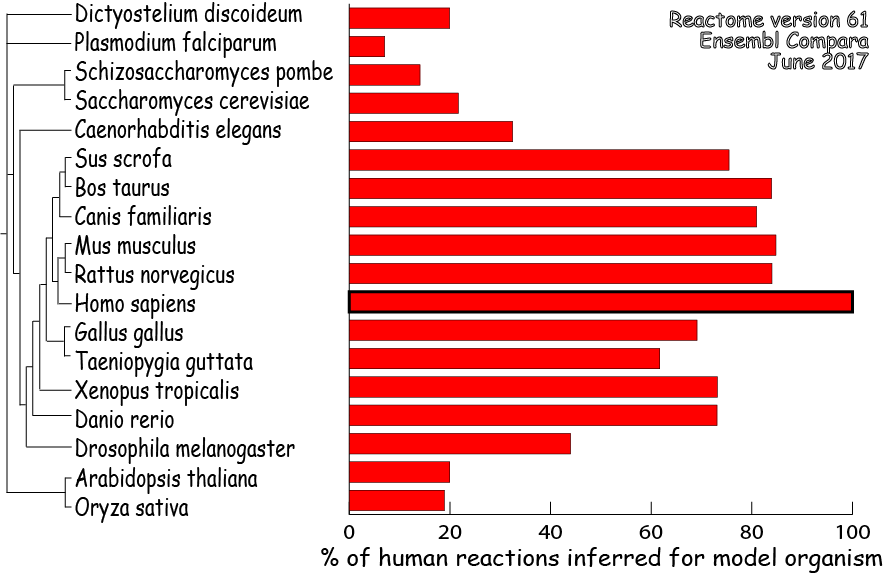
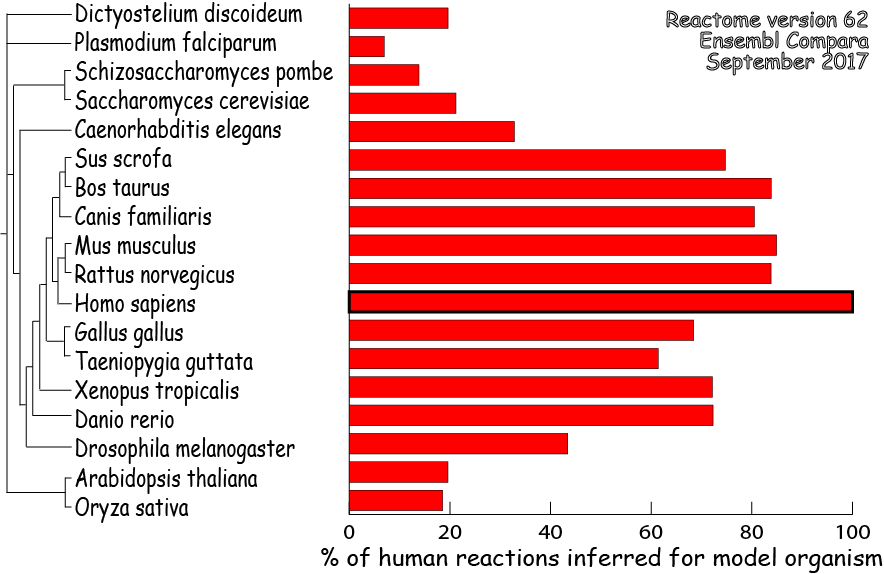
version 62

diff --git a/scripts/release/website_files_update/stats.html b/scripts/release/website_files_update/stats.html
@@ -7,7 +7,7 @@
 
     <body>
 	<!--#include virtual="/cgi-bin/navigation_bar" -->
-	<h1 class="frontpage">Reactome Statistics (Version 61)</h1>
+	<h1 class="frontpage">Reactome Statistics (Version 62)</h1>
 	    
 	<!-- Start of the stats table  -->
 	<table border="0" width="90%" cellpadding="0" cellspacing="0" class="classbrowser">
@@ -23,146 +23,146 @@
 		    
 		    <tr height="18" class="own">
 			<td height="25" class="own">D. discoideum</td>
-			<td class="own" align="center">2046</td>
-			<td class="own" align="center">1919</td>
+			<td class="own" align="center">2036</td>
+			<td class="own" align="center">1915</td>
 			<td class="own" align="center">1668</td>
-			<td class="own" align="center">844</td>
+			<td class="own" align="center">826</td>
 		    </tr>
 		    
 		    <tr height="18" class="own">
 			<td height="25" class="own">P. falciparum</td>
-			<td class="own" align="center">775</td>
-			<td class="own" align="center">719</td>
-			<td class="own" align="center">587</td>
-			<td class="own" align="center">480</td>
+			<td class="own" align="center">776</td>
+			<td class="own" align="center">720</td>
+			<td class="own" align="center">589</td>
+			<td class="own" align="center">453</td>
 		    </tr>
 		    
 		    <tr height="18" class="own">
 			<td height="25" class="own">S. pombe</td>
-			<td class="own" align="center">1439</td>
-			<td class="own" align="center">1403</td>
+			<td class="own" align="center">1429</td>
+			<td class="own" align="center">1399</td>
 			<td class="own" align="center">1180</td>
-			<td class="own" align="center">695</td>
+			<td class="own" align="center">676</td>
 		    </tr>
 		    
 		    <tr height="18" class="own">
 			<td height="25" class="own">S. cerevisiae</td>
-			<td class="own" align="center">1618</td>
-			<td class="own" align="center">2066</td>
-			<td class="own" align="center">1884</td>
-			<td class="own" align="center">866</td>
+			<td class="own" align="center">1605</td>
+			<td class="own" align="center">2033</td>
+			<td class="own" align="center">1872</td>
+			<td class="own" align="center">829</td>
 		    </tr>
 		    
 		    <tr height="18" class="own">
 			<td height="25" class="own">C. elegans</td>
-			<td class="own" align="center">4929</td>
-			<td class="own" align="center">3119</td>
-			<td class="own" align="center">2709</td>
-			<td class="own" align="center">1110</td>
+			<td class="own" align="center">4952</td>
+			<td class="own" align="center">3220</td>
+			<td class="own" align="center">2784</td>
+			<td class="own" align="center">1115</td>
 		    </tr>
 		    
 		    <tr height="18" class="own">
 			<td height="25" class="own">S. scrofa</td>
-			<td class="own" align="center">9847</td>
-			<td class="own" align="center">7296</td>
-			<td class="own" align="center">6310</td>
-			<td class="own" align="center">1511</td>
+			<td class="own" align="center">9802</td>
+			<td class="own" align="center">7428</td>
+			<td class="own" align="center">6356</td>
+			<td class="own" align="center">1529</td>
 		    </tr>
 		    
 		    <tr height="18" class="own">
 			<td height="25" class="own">B. taurus</td>
-			<td class="own" align="center">9257</td>
-			<td class="own" align="center">8087</td>
-			<td class="own" align="center">7082</td>
-			<td class="own" align="center">1568</td>
+			<td class="own" align="center">9329</td>
+			<td class="own" align="center">8212</td>
+			<td class="own" align="center">7193</td>
+			<td class="own" align="center">1581</td>
 		    </tr>
 		    
 		    <tr height="18" class="own">
 			<td height="25" class="own">C. familiaris</td>
-			<td class="own" align="center">10350</td>
-			<td class="own" align="center">7848</td>
-			<td class="own" align="center">6771</td>
-			<td class="own" align="center">1551</td>
+			<td class="own" align="center">10413</td>
+			<td class="own" align="center">7962</td>
+			<td class="own" align="center">6847</td>
+			<td class="own" align="center">1571</td>
 		    </tr>
 		    
 		    <tr height="18" class="own">
 			<td height="25" class="own">M. musculus</td>
-			<td class="own" align="center">11553</td>
-			<td class="own" align="center">8877</td>
-			<td class="own" align="center">7809</td>
-			<td class="own" align="center">1613</td>
+			<td class="own" align="center">11535</td>
+			<td class="own" align="center">9138</td>
+			<td class="own" align="center">8030</td>
+			<td class="own" align="center">1600</td>
 		    </tr>
 		    
 		    <tr height="18" class="own">
 			<td height="25" class="own">R. norvegicus</td>
-			<td class="own" align="center">10878</td>
-			<td class="own" align="center">8224</td>
-			<td class="own" align="center">7246</td>
-			<td class="own" align="center">1574</td>
+			<td class="own" align="center">10955</td>
+			<td class="own" align="center">8392</td>
+			<td class="own" align="center">7363</td>
+			<td class="own" align="center">1583</td>
 		    </tr>
 		    
 		    <tr height="18" class="own">
 			<td height="25" class="own">*H. sapiens</td>
-			<td class="own" align="center">10684</td>
-			<td class="own" align="center">11041</td>
-			<td class="own" align="center">11042</td>
-			<td class="own" align="center">2148</td>
+			<td class="own" align="center">10712</td>
+			<td class="own" align="center">11284</td>
+			<td class="own" align="center">11302</td>
+			<td class="own" align="center">2176</td>
 		    </tr>
 		    
 		    <tr height="18" class="own">
 			<td height="25" class="own">G. gallus</td>
-			<td class="own" align="center">8565</td>
-			<td class="own" align="center">7129</td>
-			<td class="own" align="center">6125</td>
-			<td class="own" align="center">1588</td>
+			<td class="own" align="center">8627</td>
+			<td class="own" align="center">7245</td>
+			<td class="own" align="center">6165</td>
+			<td class="own" align="center">1600</td>
 		    </tr>
 		    
 		    <tr height="18" class="own">
 			<td height="25" class="own">T. guttata</td>
-			<td class="own" align="center">6991</td>
-			<td class="own" align="center">6098</td>
-			<td class="own" align="center">5153</td>
-			<td class="own" align="center">1462</td>
+			<td class="own" align="center">7079</td>
+			<td class="own" align="center">6155</td>
+			<td class="own" align="center">5212</td>
+			<td class="own" align="center">1484</td>
 		    </tr>
 		    
 		    <tr height="18" class="own">
 			<td height="25" class="own">X. tropicalis</td>
-			<td class="own" align="center">8647</td>
-			<td class="own" align="center">6994</td>
-			<td class="own" align="center">6112</td>
-			<td class="own" align="center">1516</td>
+			<td class="own" align="center">8726</td>
+			<td class="own" align="center">7067</td>
+			<td class="own" align="center">6131</td>
+			<td class="own" align="center">1526</td>
 		    </tr>
 		    
 		    <tr height="18" class="own">
 			<td height="25" class="own">D. rerio</td>
-			<td class="own" align="center">14845</td>
-			<td class="own" align="center">7042</td>
-			<td class="own" align="center">6105</td>
-			<td class="own" align="center">1517</td>
+			<td class="own" align="center">14930</td>
+			<td class="own" align="center">7075</td>
+			<td class="own" align="center">6145</td>
+			<td class="own" align="center">1529</td>
 		    </tr>
 		    
 		    <tr height="18" class="own">
 			<td height="25" class="own">D. melanogaster</td>
-			<td class="own" align="center">9747</td>
-			<td class="own" align="center">4381</td>
-			<td class="own" align="center">3692</td>
-			<td class="own" align="center">1262</td>
+			<td class="own" align="center">9733</td>
+			<td class="own" align="center">4659</td>
+			<td class="own" align="center">3946</td>
+			<td class="own" align="center">1375</td>
 		    </tr>
 		    
 		    <tr height="18" class="own">
 			<td height="25" class="own">A. thaliana</td>
-			<td class="own" align="center">4573</td>
-			<td class="own" align="center">1905</td>
-			<td class="own" align="center">1667</td>
-			<td class="own" align="center">809</td>
+			<td class="own" align="center">5068</td>
+			<td class="own" align="center">1903</td>
+			<td class="own" align="center">1664</td>
+			<td class="own" align="center">785</td>
 		    </tr>
 		    
 		    <tr height="18" class="own">
 			<td height="25" class="own">O. sativa</td>
-			<td class="own" align="center">4731</td>
-			<td class="own" align="center">1799</td>
-			<td class="own" align="center">1577</td>
-			<td class="own" align="center">802</td>
+			<td class="own" align="center">4701</td>
+			<td class="own" align="center">1801</td>
+			<td class="own" align="center">1576</td>
+			<td class="own" align="center">780</td>
 		    </tr>
 		    
 		    <tr height="18" class="own">
@@ -182,7 +182,7 @@
 
 	<div style="font-size:9pt;text-align:left;color:black;padding-top:10px;width=40%">
 	    *Reactome annotates to protein isoforms when this information is available.<br />
-	    The total number of curated human proteins including isoforms is 10846
+	    The total number of curated human proteins including isoforms is 10878
 	</div>
 
 	<!--#include virtual="/cgi-bin/footer" -->
